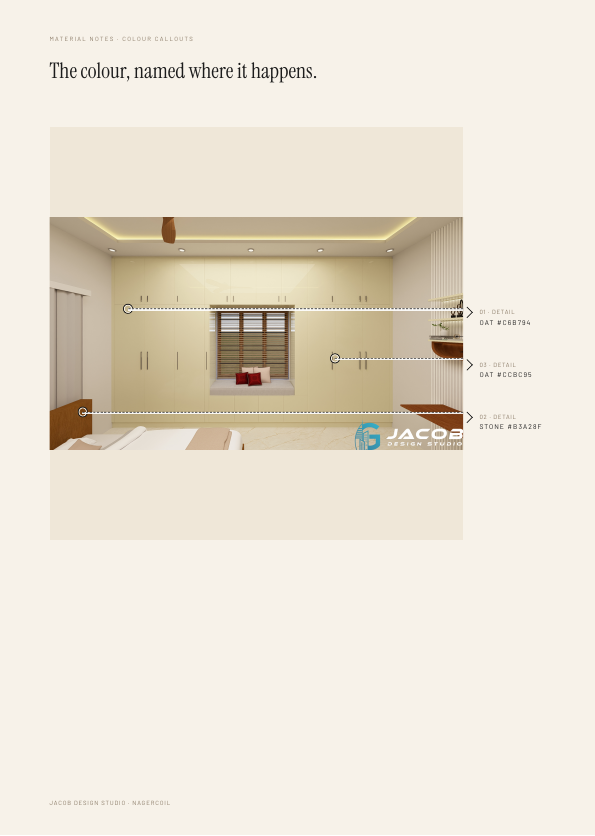
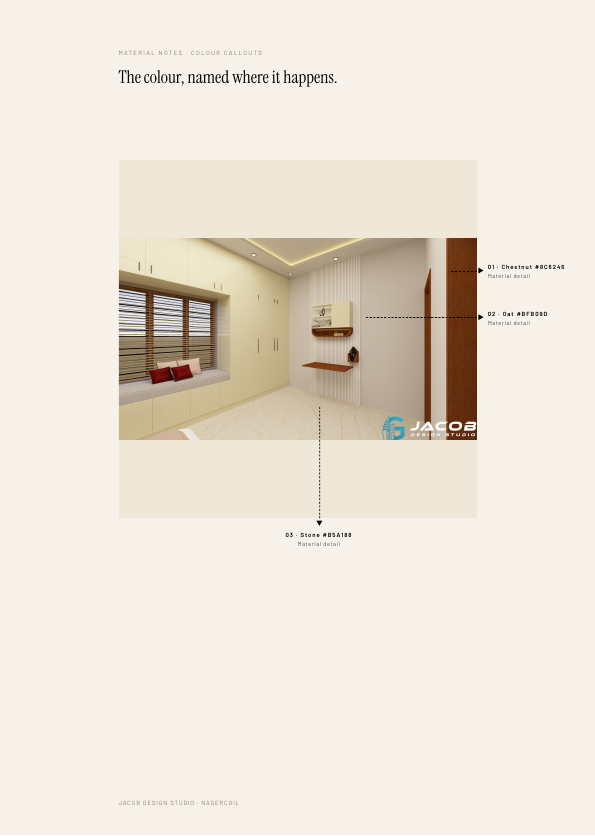
Black shortest-side material callouts: labels on the nearest edge

diff --git a/README.md b/README.md
@@ -32,7 +32,7 @@ The photographs are the source, not decoration. The brochure is a colour study, 
 - **No order number in print.** The order number lives in the app and the database, never on a printed page.
 - **The logo leads.** On the cover the brand plate must be 55 to 100 mm wide, prominent and given real space; the body mark stays a small quiet sign.
 - **Every picture is the hero.** Each uploaded photo is printed whole and uncropped, never a cropped background, and the studio adds a full picture material callout page for every picture with decoded details. There is no thumbnail appendix and no keyword sheet.
-- **Material callout pages, drawn by the studio.** No magnifier and no loupe. Every picture with a decoded detail gets a callout page: a small open ring on the exact point, a layered dashed leader line with an arrow to the outer edge, and the colour code and name printed on paper outside the photograph, like the paint card catalogue. The annotation is deterministic, so it can never be faint, clipped or missing.
+- **Material callout pages, drawn by the studio.** One page per picture with decoded details, the whole picture large, a small black ring on the exact point, a short black dashed leader with a black arrow, and the colour code and name outside the picture. Each callout takes the nearest side, top, bottom, left or right, so the line is as short as possible and the photograph keeps its space. No white halos, no loupe, no crop.
 - **The whole style signature comes from the pictures.** Palette, tone, warmth and contrast are mapped to concrete decisions: the page ground, the serif or sans display voice, the outer margin, the picture scale and the rule weight. Two picture sets cannot produce the same looking book. The designer must follow those decisions, and the palette lock removes invented colours.
 - **The picture palette is the law.** Any literal colour the model invents that is not within the picture theme or a neutral tint is remapped to the nearest colour the pictures actually contain. The only exception is when the client states a colour preference in the chat or the order words; then their choice wins for that book.
 - **The taste comes from the pictures.** Every order gets its own art direction computed from its photographs: palette shares, tone (light and airy, calm, or deep and low lit), warmth, contrast and the focal details seen. The brief tells the designer to invent a fresh concept for that set and never reuse a house layout; the page ground, ink, deep tone, accent and hairline all come from the picture palette through the theme variables.
